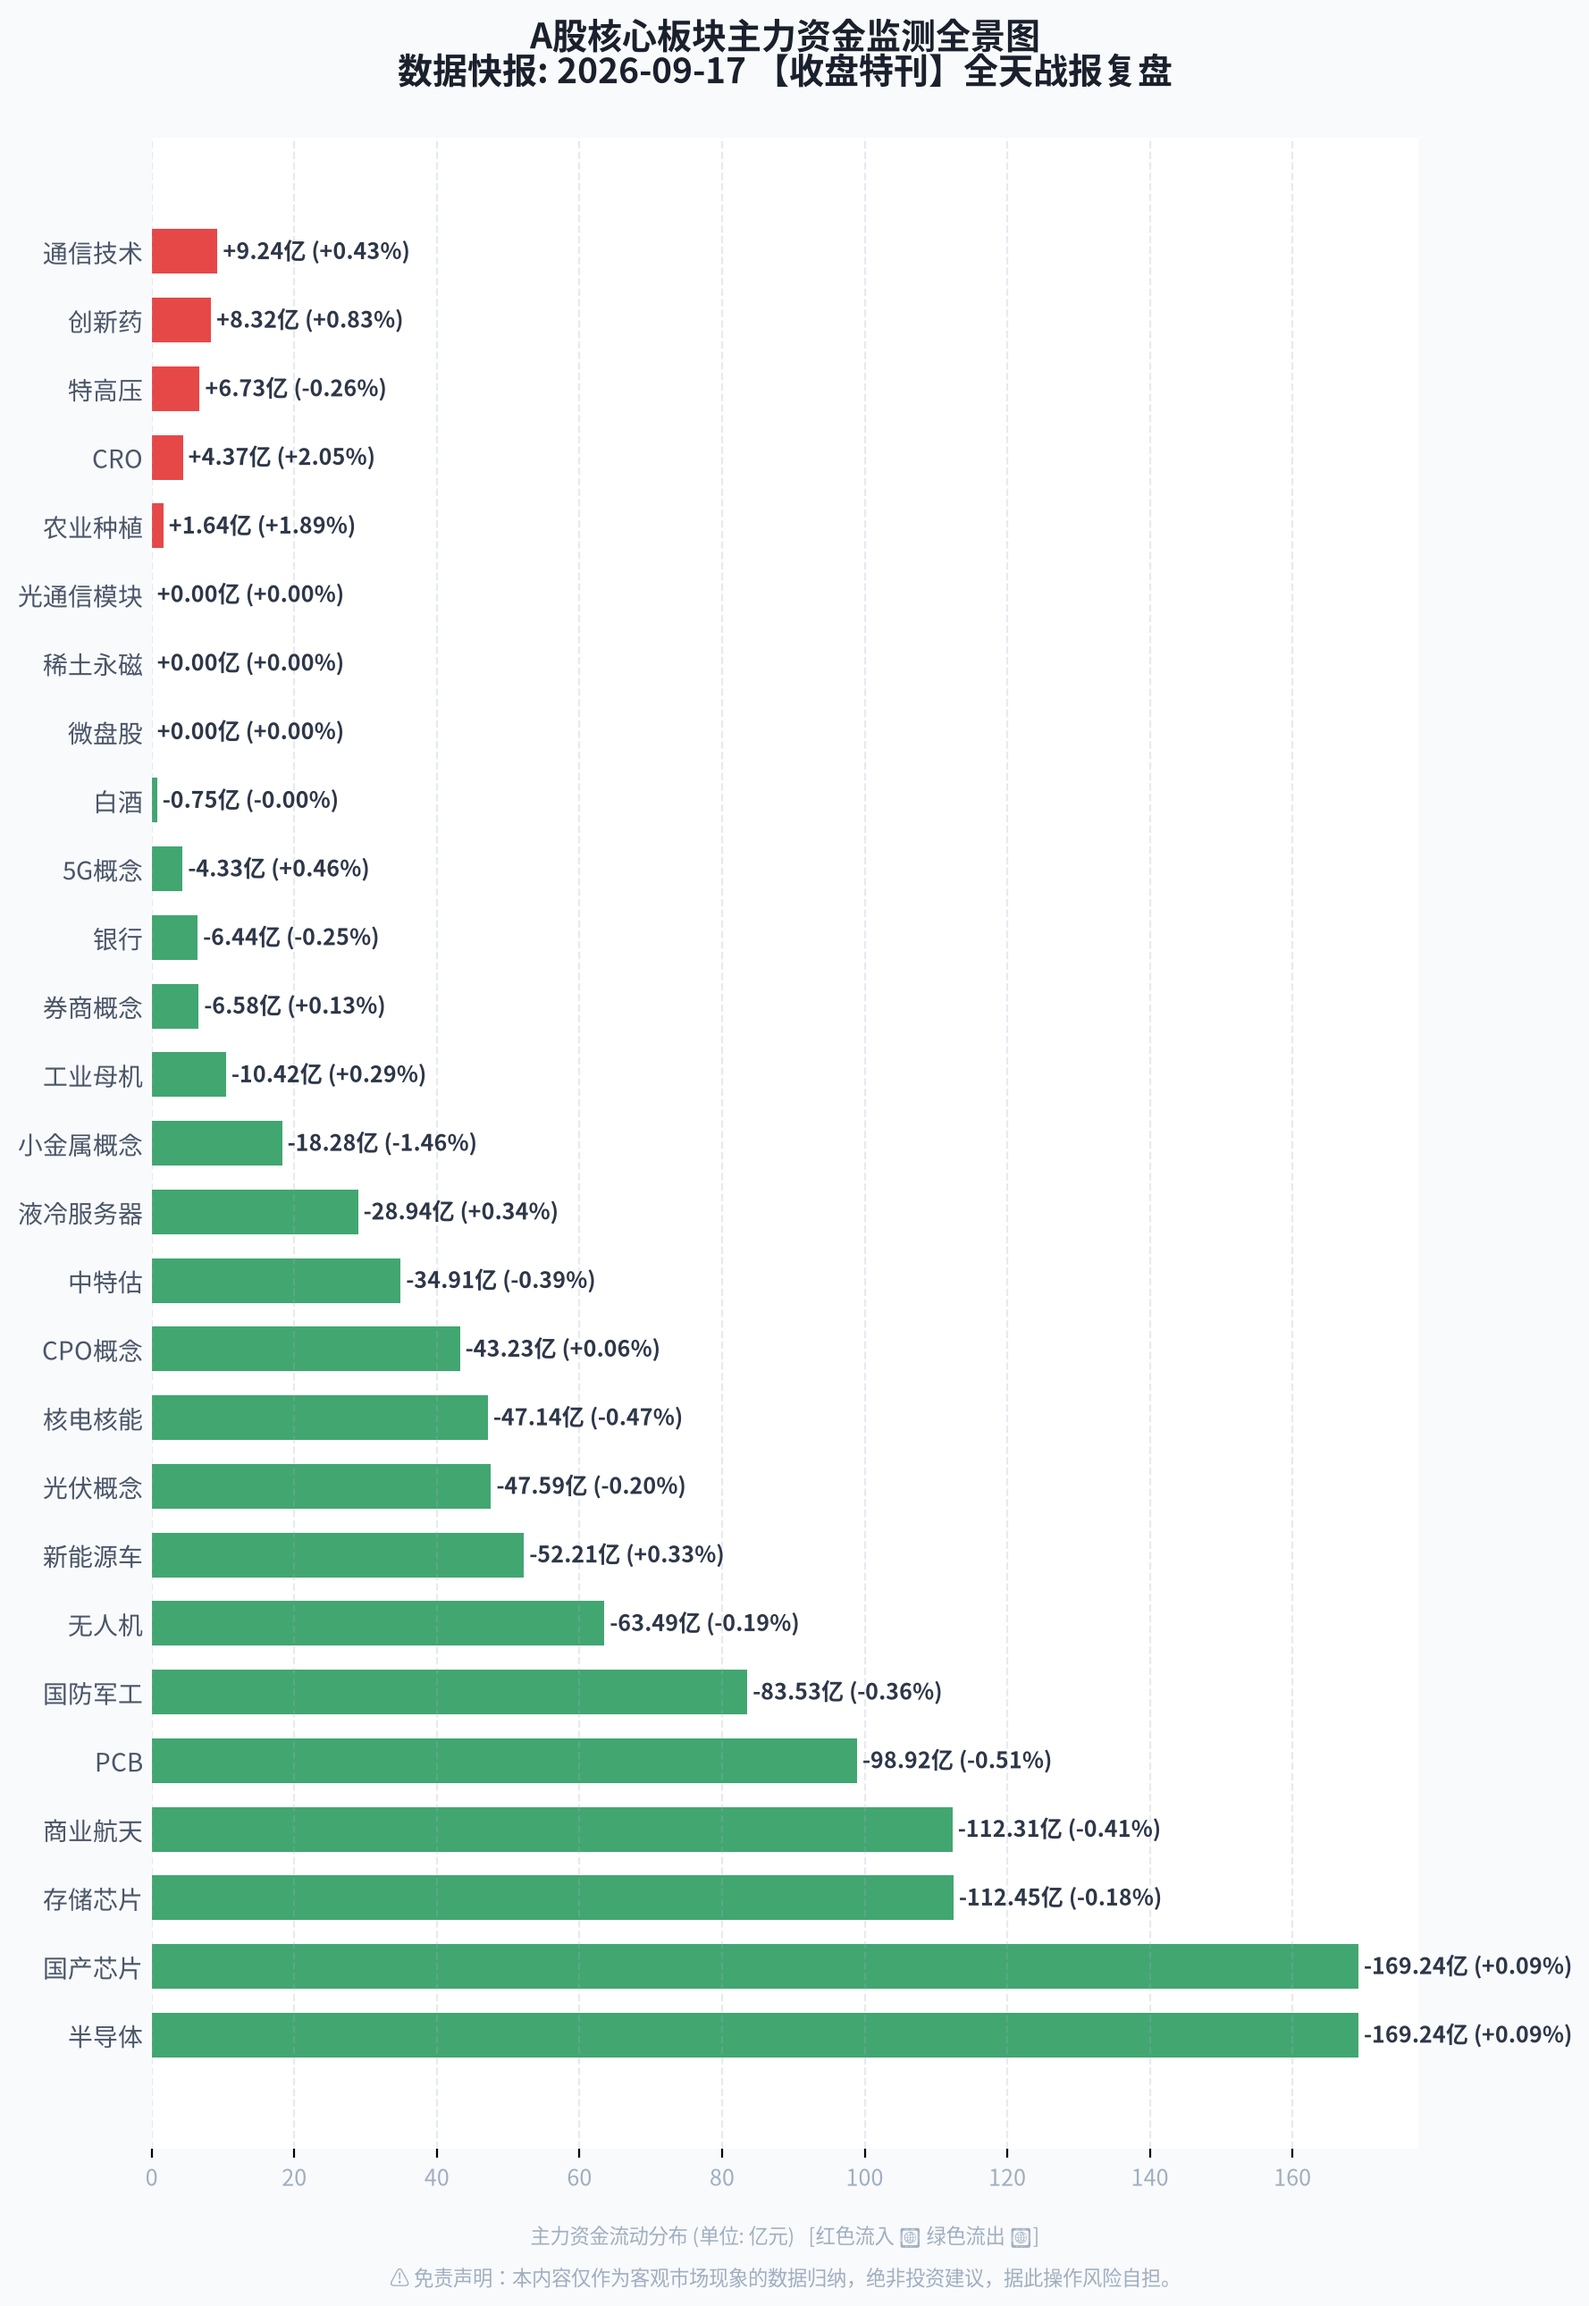
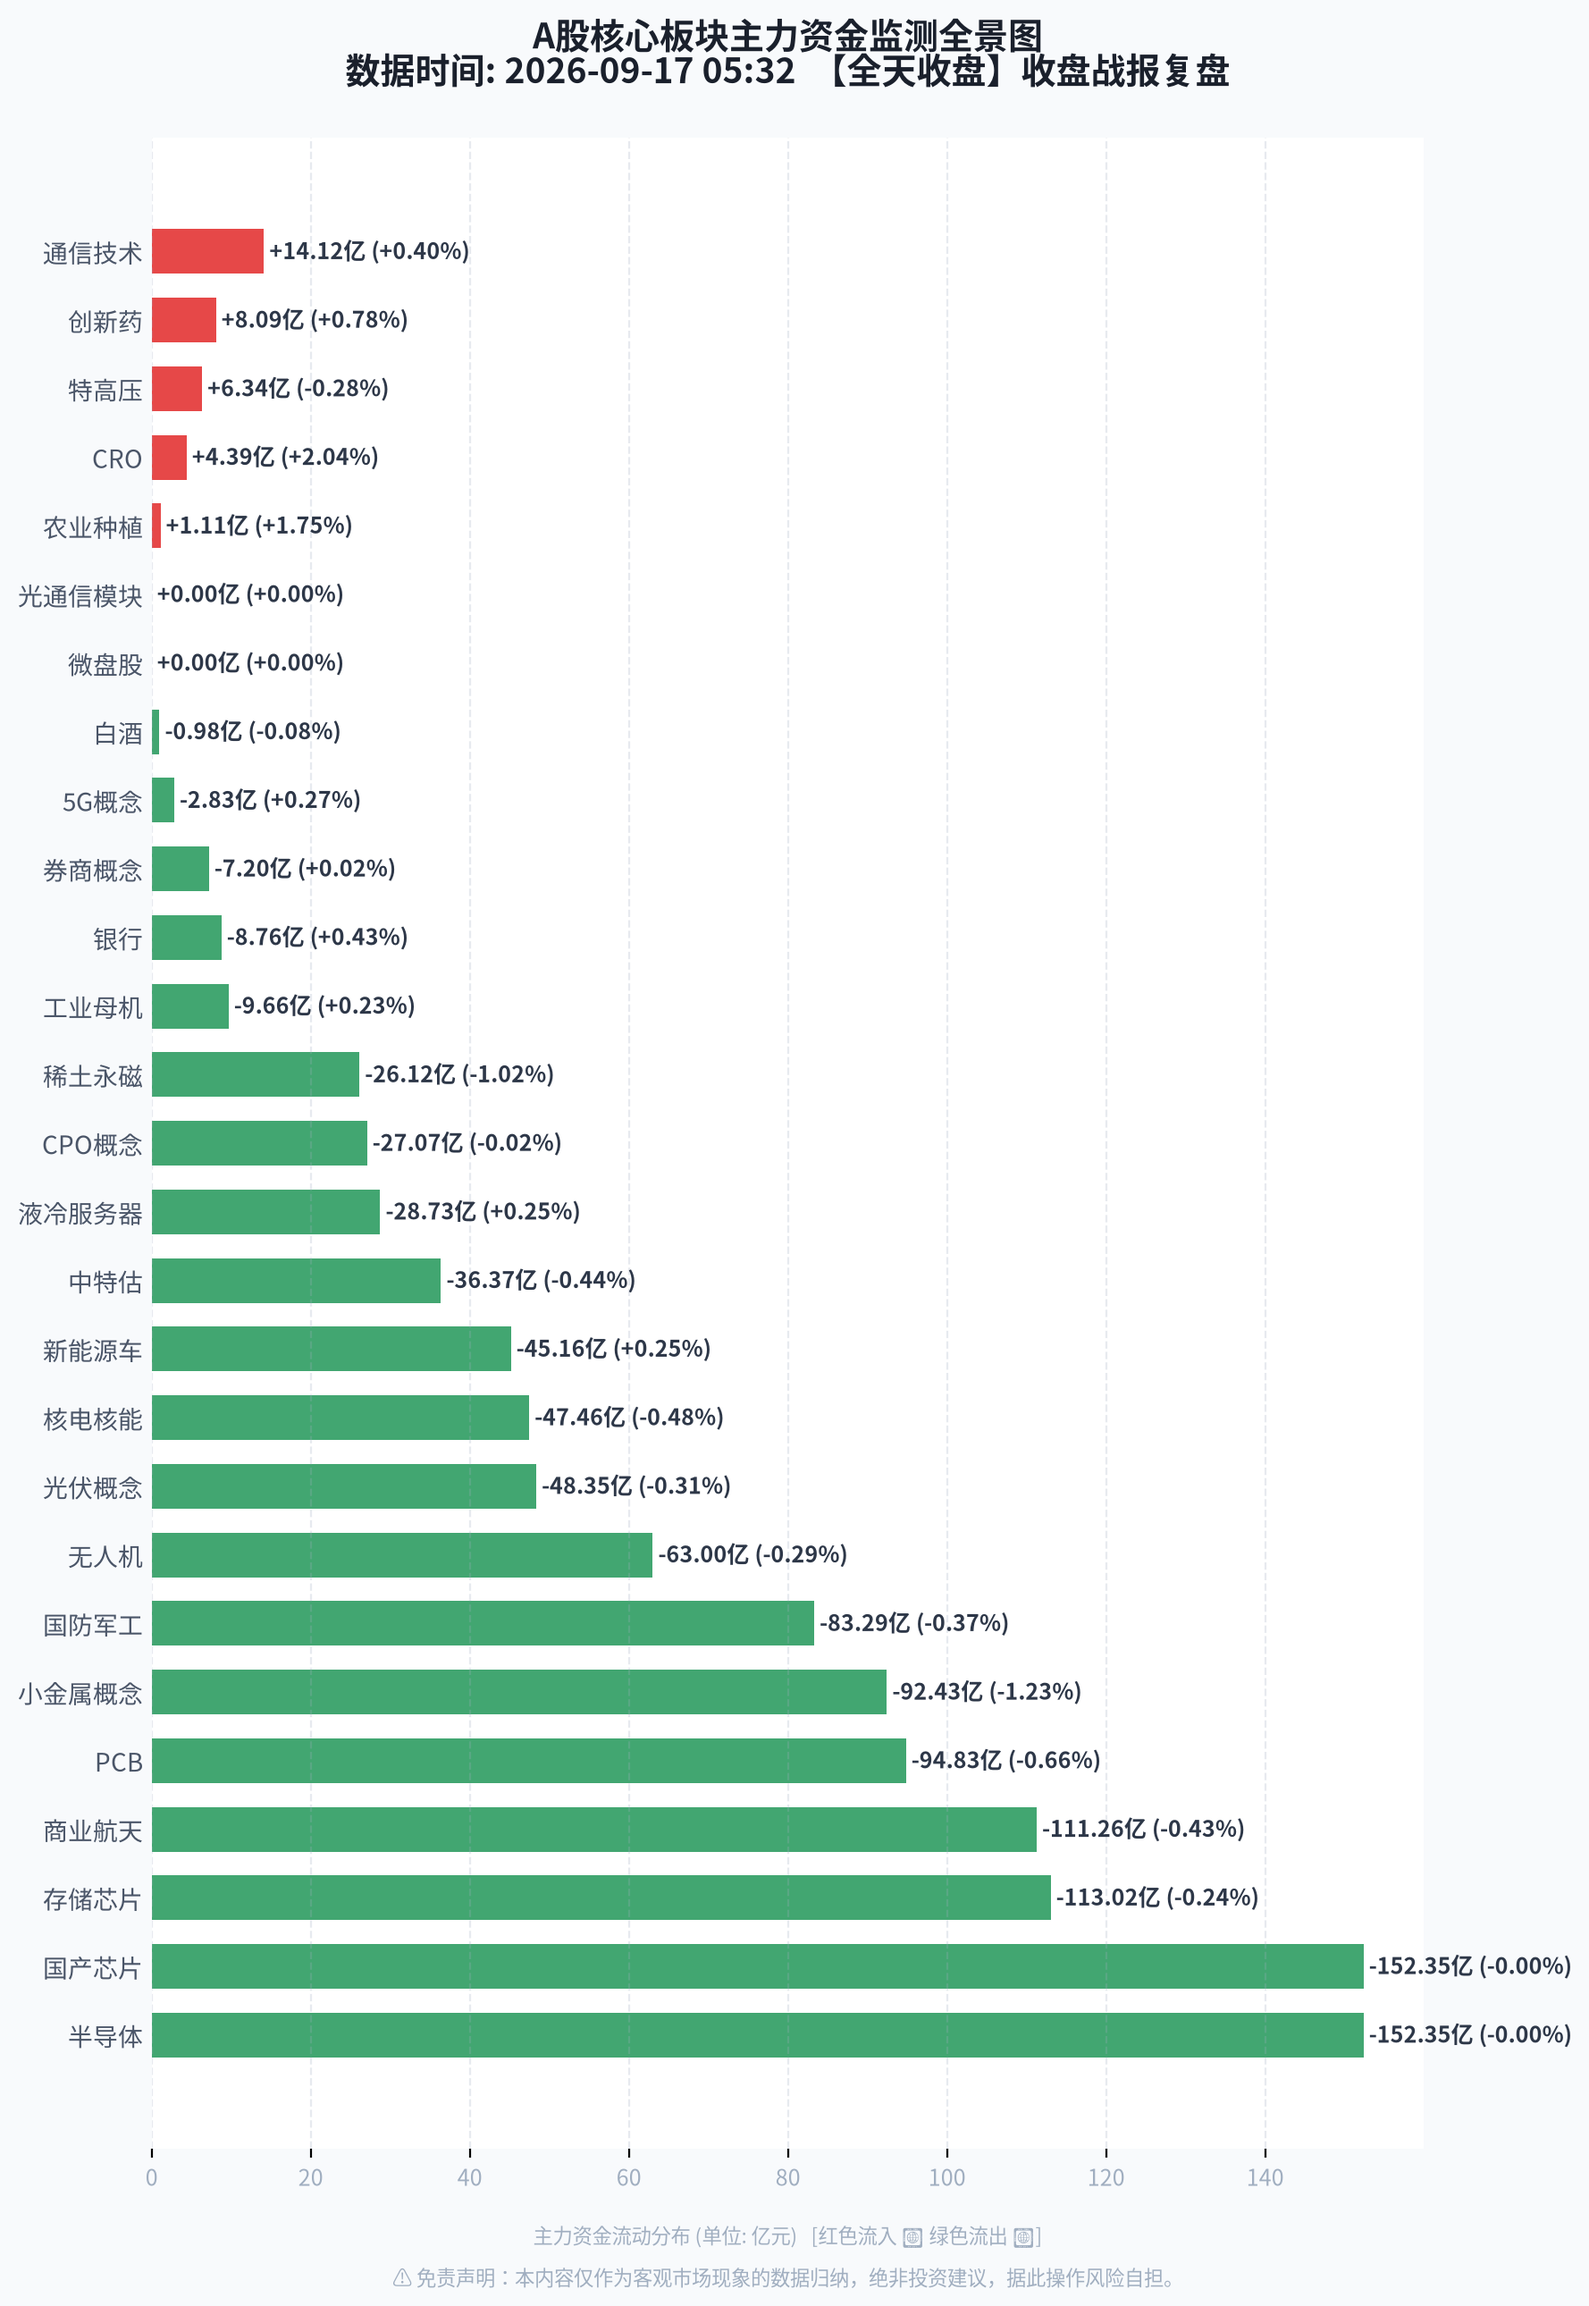
feat: 安装依赖并启动项目

diff --git a/main.py b/main.py
@@ -196,7 +196,7 @@ def get_all_merged_capital_flow():
     except Exception as e:
         print(f"⚠ AKShare 失败: {type(e).__name__}: {e}")
         print(f"⚠ 调用预备 mock 数据集")
-        all_names = list(SECTOR_ALIASES.keys())
+        all_names = list(SECTOR_TO_EASTMONEY.keys())
         return [{"name": name, "flow": 12.0 - idx * 0.9, "pct": 2.5 - idx * 0.1} for idx, name in enumerate(all_names)]
 
 # =====================================================================
@@ -241,11 +241,12 @@ def generate_infographic_image(data_list, report_type):
                 va='center', ha='left', fontsize=9, color='#2d3748', fontweight='bold')
 
     today_date = datetime.now().strftime("%Y-%m-%d")
+    now_time = datetime.now().strftime("%H:%M")
     
-    # 💡 核心修改：根据运行时间自动切换午盘/收盘小标题
-    title_suffix = "【午盘特刊】中场异动扫描" if report_type == "midday" else "【收盘特刊】全天战报复盘"
+    # 根据 report_type 变换小标题
+    main_label, sub_label = REPORT_LABEL.get(report_type, ("收盘", "收盘战报复盘"))
     
-    plt.title(f"A股核心板块主力资金监测全景图\n数据快报: {today_date} {title_suffix}", 
+    plt.title(f"A股核心板块主力资金监测全景图\n数据时间: {today_date} {now_time}  【{main_label}】{sub_label}", 
               fontsize=14, pad=22, color='#1a202c', fontweight='bold', loc='center')
     
     plt.xlabel("主力资金流动分布 (单位: 亿元)   [红色流入 🔺 绿色流出 🔻]\n\n⚠ 免责声明：本内容仅作为客观市场现象的数据归纳，绝非投资建议，据此操作风险自担。", 
@@ -323,8 +324,10 @@ def _upload_to_gitee(img_path):
 
 
 def push_image_to_dingtalk(webhook_url, img_path, report_type):
-    today_date = datetime.now().strftime("%Y-%m-%d")
-    time_label = "【午盘】中场" if report_type == "midday" else "【收盘】全天"
+    now = datetime.now()
+    today_date = now.strftime("%Y-%m-%d")
+    now_time = now.strftime("%H:%M")
+    main_label, sub_label = REPORT_LABEL.get(report_type, ("收盘", ""))
 
     # 用 Gitee 国内图床(仓库已 public)
     print("📤 上传长图到 Gitee 国内图床...")
@@ -333,20 +336,18 @@ def push_image_to_dingtalk(webhook_url, img_path, report_type):
         print("❌ 图片上传失败,GITEE_TOKEN 未配置或 Gitee API 报错,无法发送钉钉消息")
         return
 
-    markdown_text = f"### 📊 今日A股全景核心板块{time_label}【主力】资金大长图已洗净！\n"
-    markdown_text += f"**快报日期**：{today_date}\n"
+    markdown_text = f"### 📊 A股核心板块主力资金全景图\n"
+    markdown_text += f"**数据时间**: {today_date} {now_time}  \n"
+    markdown_text += f"**报告类型**: 【{main_label}】{sub_label}  \n"
     markdown_text += "━━━━━━━━━━━━━━━━━━━━\n"
     markdown_text += f"![主力资金全景长图]({cdn_image_url})\n\n"
-    markdown_text += "📂 **自媒体运营发布动作**：\n"
-    markdown_text += f"1. 长按上方群聊里的{time_label}图表,直接保存至手机相册。\n"
-    markdown_text += "2. 打开公众号后台,直接插入最新动态文章,一秒群发抢占头条！\n"
     markdown_text += "━━━━━━━━━━━━━━━━━━━━\n"
     markdown_text += "> ⚠ *免责声明:本内容仅供客观数据事实复盘,不构成任何投资买卖建议。*"
 
     payload = {
         "msgtype": "markdown",
         "markdown": {
-            "title": f"今日{time_label}主力资金长图已就绪",
+            "title": f"【{main_label}】A股主力资金图 {today_date} {now_time}",
             "text": markdown_text
         }
     }
@@ -355,26 +356,82 @@ def push_image_to_dingtalk(webhook_url, img_path, report_type):
     response = requests.post(webhook_url, data=json.dumps(payload), headers=headers).json()
 
     if response.get("errcode") == 0:
-        print(f"🎉【{time_label}特刊完美收官】简报已安全送达钉钉群聊!")
+        print(f"🎉【{main_label} {now_time}】简报已安全送达钉钉群聊!")
     else:
         print(f"❌ 钉钉拒绝,原因:{response}")
 
 
+def _get_report_type():
+    """
+    根据北京时间当前时刻判定属于哪个报告时段
+    一天 4 次:
+      09:35 ~ 11:30 → "morning"  开盘后1小时
+      11:30 ~ 13:30 → "midday"   午盘收盘
+      13:30 ~ 15:00 → "afternoon" 下午开盘1小时
+      15:00 ~ 09:35 → "closing"   下午收盘(含盘后)
+    """
+    now = datetime.now()
+    h, m = now.hour, now.minute
+    t = h * 60 + m  # 当天分钟数
+
+    if 0 <= t < 9 * 60 + 35:
+        return "closing"       # 盘后/凌晨 → 算作昨天收盘归档
+    elif 9 * 60 + 35 <= t < 11 * 60 + 30:
+        return "morning"
+    elif 11 * 60 + 30 <= t < 13 * 60 + 30:
+        return "midday"
+    elif 13 * 60 + 30 <= t < 15 * 60:
+        return "afternoon"
+    else:
+        return "closing"
+
+
+REPORT_LABEL = {
+    "morning":   ("开盘后1小时", "盘中实时扫描"),
+    "midday":    ("午盘收盘",   "中场异动扫描"),
+    "afternoon": ("下午开盘1小时", "尾盘资金追踪"),
+    "closing":   ("全天收盘",   "收盘战报复盘"),
+}
+
+# 幂等标记文件:同一天同一时段只发一次
+IDEMPOTENT_DIR = os.path.join(os.path.dirname(os.path.abspath(__file__)), ".sent_marker")
+
+
+def _check_and_mark_sent(report_type):
+    """
+    返回 True 表示这次可以发(没发过),False 表示已经发过了跳过
+    用本地文件做幂等标记,文件名 = 日期_时段
+    """
+    os.makedirs(IDEMPOTENT_DIR, exist_ok=True)
+    today = datetime.now().strftime("%Y-%m-%d")
+    marker = os.path.join(IDEMPOTENT_DIR, f"{today}_{report_type}.done")
+    if os.path.exists(marker):
+        print(f"⚠ 幂等标记已存在: {marker}, 本次跳过(避免重复发送)")
+        return False
+    # 写入标记
+    with open(marker, "w") as f:
+        f.write(datetime.now().isoformat())
+    return True
+
 if __name__ == "__main__":
+    report_type = _get_report_type()
+    main_label, _ = REPORT_LABEL[report_type]
+    print(f"🕐 当前时段判定: {report_type} → 【{main_label}】")
+
+    # 幂等检查:同一天同一时段只发一次
+    if not _check_and_mark_sent(report_type):
+        print(f"⏭ 已发过,本次跳过。如需强制重发,删除 .sent_marker/ 下对应标记文件即可。")
+        raise SystemExit(0)
+
     print("📅 [验证开始] 正在检测大盘是否处于开盘交易状态...")
     if check_is_market_closed():
         print("😴 检测到今天非交易日,自动化工作流优雅休眠退出。")
     else:
-        # 💡 智能化总线判断:当前是中午还是下午收盘
-        current_hour = datetime.now().hour
-        # 北京时间 11:30~13:30 之间运行则判定为午盘
-        current_report_type = "midday" if 11 <= current_hour < 14 else "closing"
-
-        print(f"🔄 第一步:启动数据清洗进程,当前判定时段为: {current_report_type}")
+        print(f"🔄 第一步:启动数据清洗进程...")
         stock_data = get_all_merged_capital_flow()
 
         print("🎨 第二步:调用零轴中置绘图引擎渲染高级长图...")
-        img_file = generate_infographic_image(stock_data, current_report_type)
+        img_file = generate_infographic_image(stock_data, report_type)
 
         print("🔑 第三步:上传长图 + 推送简报到钉钉群聊...")
-        push_image_to_dingtalk(DINGTALK_WEBHOOK_URL, img_file, current_report_type)
+        push_image_to_dingtalk(DINGTALK_WEBHOOK_URL, img_file, report_type)
